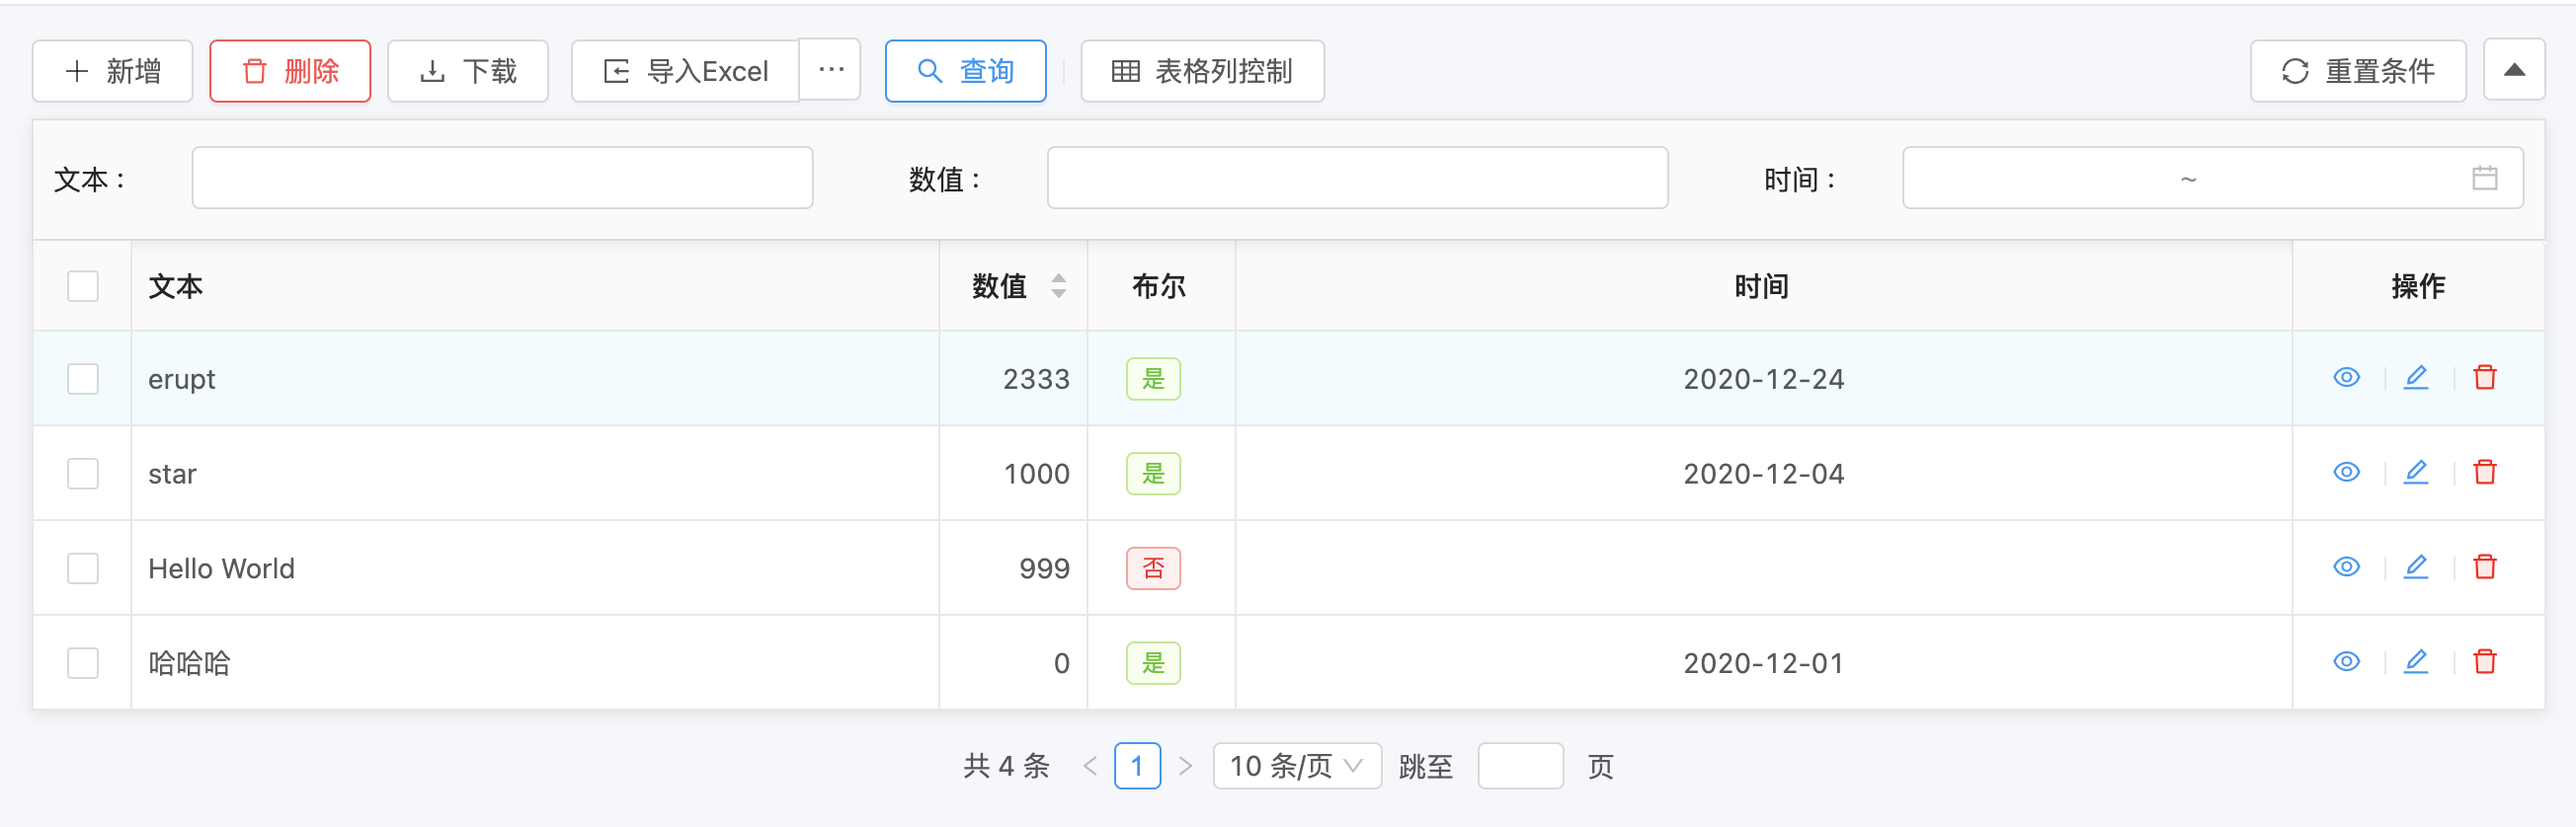
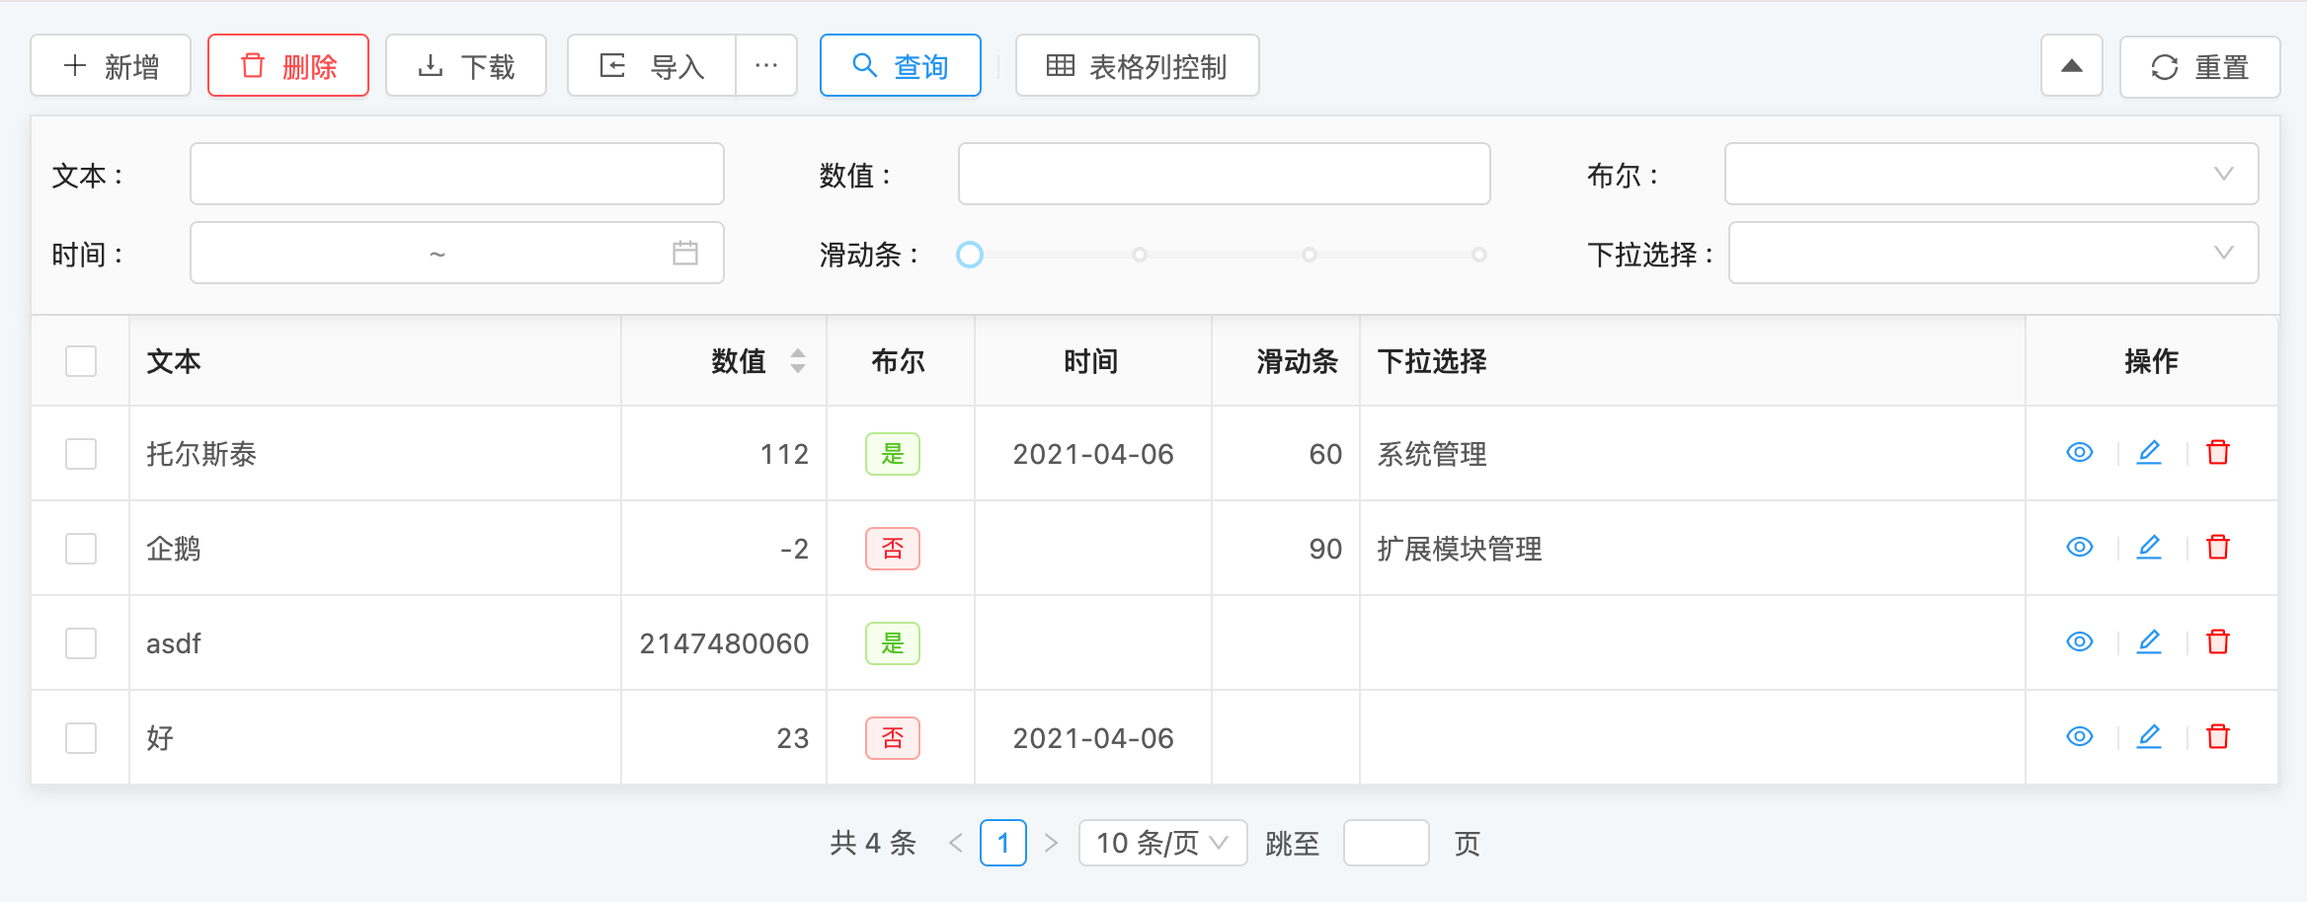
update README.md

diff --git a/README.md b/README.md
@@ -23,6 +23,7 @@
     <a href="https://gitee.com/erupt/erupt">码云仓库</a> &nbsp; | &nbsp; 
     <a href="https://www.erupt.xyz" target="_blank"><b>🦅 官方网站</b></a> &nbsp; | &nbsp; 
     <a href="https://www.erupt.xyz/demo" target="_blank">在线体验</a> &nbsp; | &nbsp; 
+    <a href="https://www.erupt.xyz/#!/module" target="_blank">框架生态</a> &nbsp; | &nbsp; 
     <a href="https://www.yuque.com/erupts" target="_blank"><b>📕 使用文档</b></a>
 </p>
 
@@ -86,6 +87,7 @@ Erupt 是一个低代码 **全栈类** 框架，它使用 **Java 注解** 动态
 代码生成器的本质还是生成繁琐的前端与后台代码，一旦修改后期生成的代码很难合并，想想 Mybatis-Generator，基本上就是一次性的东西，虽然减轻了部分工作，可解决方式并非最佳。
 
 开发后台管理系统大部分情况下只想做个普通的增删改查界面，用于数据管理，类似下面这种：
+PS: erupt支持定义复杂的页面自定义，详见erupt-tpl模块
 
 ![result](readme/view.png)
 ![result](readme/edit.png)
@@ -113,15 +115,35 @@ public class Simple extends BaseModel {
 
     @EruptField(
             views = @View(title = "布尔"),
-            edit = @Edit(title = "布尔")
+            edit = @Edit(title = "布尔", search = @Search)
     )
     private Boolean bool;
+
 
     @EruptField(
             views = @View(title = "时间"),
             edit = @Edit(title = "时间", search = @Search(vague = true))
     )
     private Date date;
+
+    @EruptField(
+            views = @View(title = "滑动条"),
+            edit = @Edit(title = "滑动条", type = EditType.SLIDER, search = @Search,
+                    sliderType = @SliderType(max = 90, markPoints = {0, 30, 60, 90}, dots = true))
+    )
+    private Integer slide;
+
+    @EruptField(
+            views = @View(title = "下拉选择"),
+            edit = @Edit(
+                    search = @Search,
+                    title = "下拉选择", type = EditType.CHOICE,
+                    choiceType = @ChoiceType(fetchHandler = SqlChoiceFetchHandler.class,
+                            fetchHandlerParams = "select id,name from e_upms_menu"
+                    )
+            )
+    )
+    private Long choice;
 
 }
 ```
